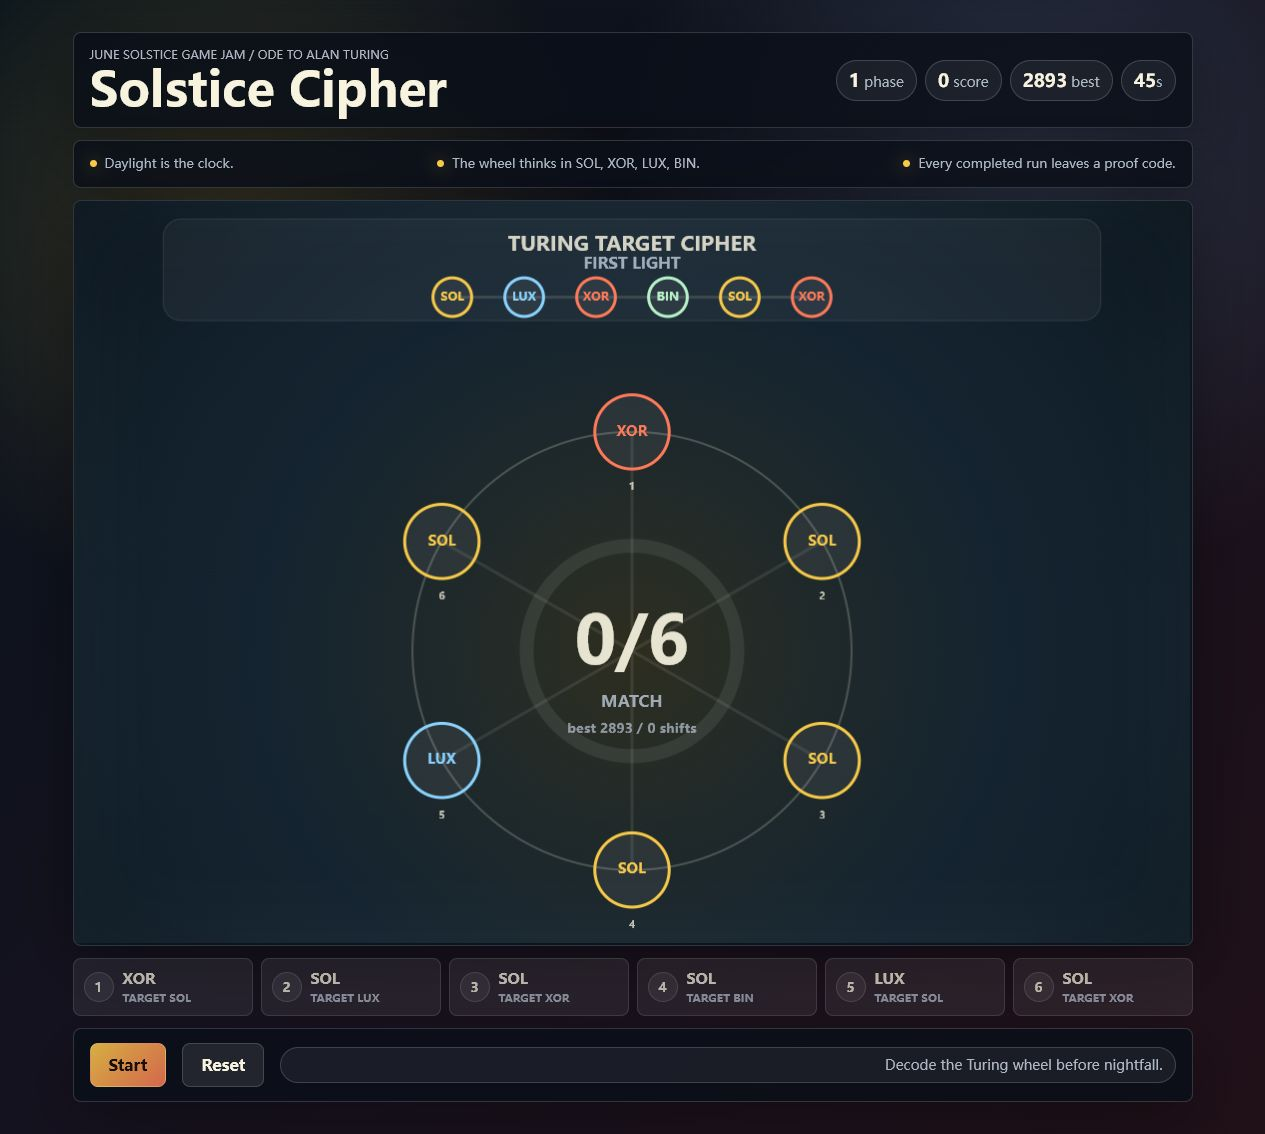
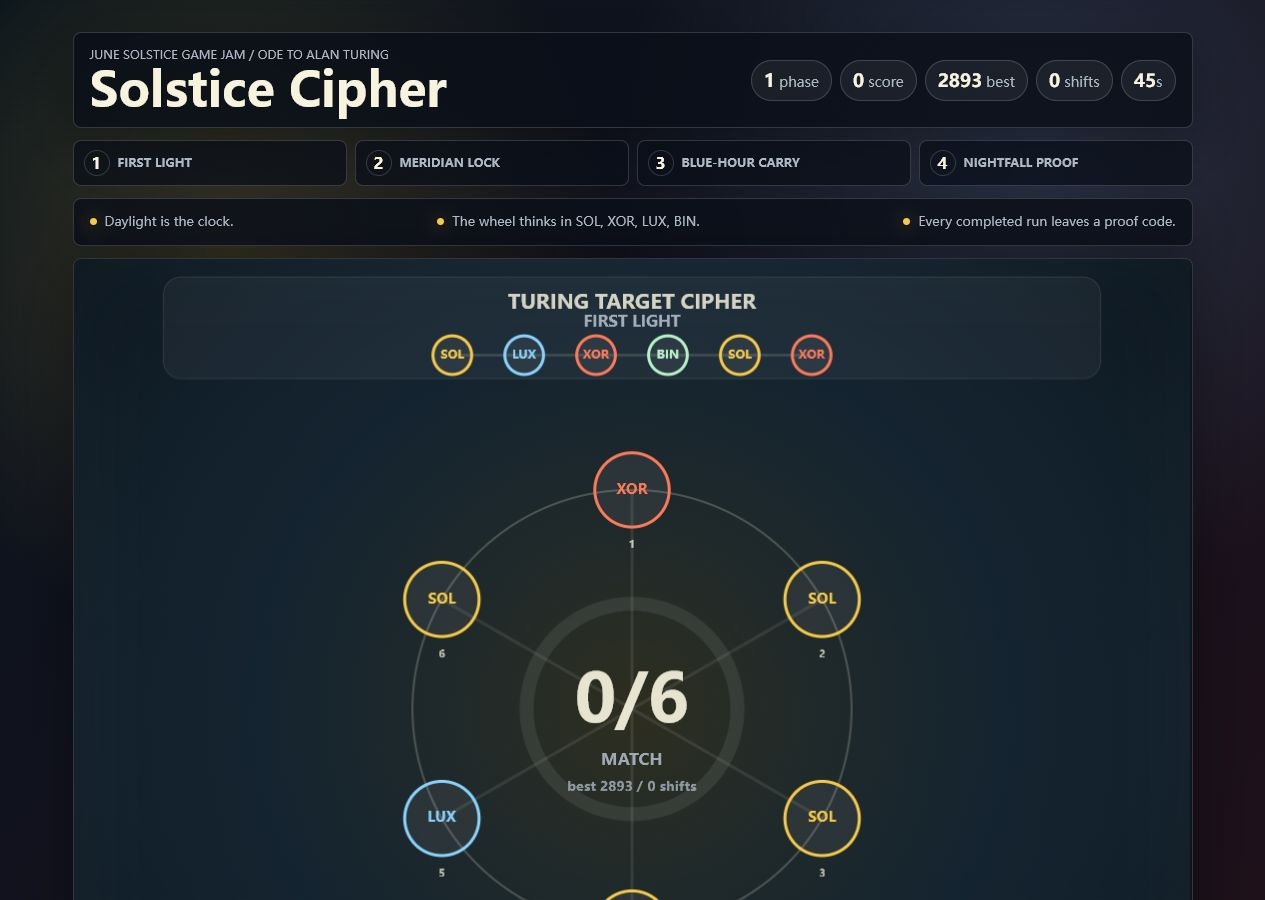
Add Solstice phase progress proofing

diff --git a/styles.css b/styles.css
@@ -74,6 +74,61 @@ body {
   margin-bottom: 12px;
 }
 
+.phase-track {
+  display: grid;
+  grid-template-columns: repeat(4, minmax(0, 1fr));
+  gap: 8px;
+  margin: 0 0 12px;
+  padding: 0;
+  list-style: none;
+}
+
+.phase-step {
+  min-width: 0;
+  min-height: 46px;
+  display: grid;
+  grid-template-columns: auto minmax(0, 1fr);
+  align-items: center;
+  gap: 8px;
+  border: 1px solid var(--line);
+  border-radius: 8px;
+  padding: 9px 10px;
+  background: rgba(9, 14, 24, 0.72);
+  color: var(--muted);
+}
+
+.phase-index {
+  display: grid;
+  place-items: center;
+  width: 26px;
+  height: 26px;
+  border: 1px solid var(--line);
+  border-radius: 999px;
+  color: var(--ink);
+  font-weight: 800;
+}
+
+.phase-name {
+  min-width: 0;
+  color: inherit;
+  font-size: 12px;
+  font-weight: 800;
+  text-transform: uppercase;
+  line-height: 1.18;
+}
+
+.phase-step.active {
+  border-color: rgba(247, 201, 72, 0.58);
+  background: rgba(247, 201, 72, 0.12);
+  color: var(--accent);
+}
+
+.phase-step.complete {
+  border-color: rgba(184, 242, 200, 0.58);
+  background: rgba(184, 242, 200, 0.1);
+  color: #b8f2c8;
+}
+
 .brief {
   margin-bottom: 12px;
   color: var(--muted);
@@ -267,6 +322,10 @@ button:focus-visible {
 
   .stats {
     justify-content: flex-start;
+  }
+
+  .phase-track {
+    grid-template-columns: repeat(2, minmax(0, 1fr));
   }
 
   .controls {

diff --git a/game.js b/game.js
@@ -4,10 +4,12 @@
   const levelLabel = document.querySelector("#levelLabel");
   const scoreLabel = document.querySelector("#scoreLabel");
   const bestLabel = document.querySelector("#bestLabel");
+  const shiftLabel = document.querySelector("#shiftLabel");
   const timeLabel = document.querySelector("#timeLabel");
   const statusLine = document.querySelector("#statusLine");
   const startButton = document.querySelector("#startButton");
   const resetButton = document.querySelector("#resetButton");
+  const phaseTrack = document.querySelector("#phaseTrack");
   const nodeButtons = document.querySelector("#nodeButtons");
   const proofPanel = document.querySelector("#proofPanel");
   const proofCode = document.querySelector("#proofCode");
@@ -95,14 +97,46 @@
     levelLabel.textContent = String(Math.min(state.level + 1, levels.length));
     scoreLabel.textContent = String(state.score);
     bestLabel.textContent = String(state.bestScore);
+    shiftLabel.textContent = String(state.shifts);
     timeLabel.textContent = String(Math.max(0, Math.ceil(state.timeLeft)));
     statusLine.textContent = state.message;
+    syncPhaseTrack();
     syncNodeButtons();
     if (proofPanel && proofCode && copyProofButton) {
       proofPanel.hidden = !state.complete;
       proofCode.textContent = state.finalProof;
       copyProofButton.disabled = !state.finalProof;
     }
+  }
+
+  function syncPhaseTrack() {
+    if (!phaseTrack) return;
+    if (phaseTrack.children.length !== levels.length) {
+      phaseTrack.textContent = "";
+      phaseNames.forEach((name, index) => {
+        const item = document.createElement("li");
+        const indexLabel = document.createElement("span");
+        const nameLabel = document.createElement("span");
+        item.className = "phase-step";
+        indexLabel.className = "phase-index";
+        nameLabel.className = "phase-name";
+        indexLabel.textContent = String(index + 1);
+        nameLabel.textContent = name;
+        item.append(indexLabel, nameLabel);
+        phaseTrack.append(item);
+      });
+    }
+    [...phaseTrack.children].forEach((item, index) => {
+      const done = state.solvedPhases > index;
+      const active = state.running && state.level === index && !state.complete;
+      item.classList.toggle("complete", done);
+      item.classList.toggle("active", active);
+      if (active) {
+        item.setAttribute("aria-current", "step");
+      } else {
+        item.removeAttribute("aria-current");
+      }
+    });
   }
 
   function syncNodeButtons() {

diff --git a/smoke.html b/smoke.html
@@ -113,7 +113,7 @@
         <p><a href="./">Open the playable game</a></p>
       </div>
       <div class="panel">
-        <iframe id="gameFrame" src="./?v=20260613-node-controls" title="Solstice Cipher game under smoke test"></iframe>
+        <iframe id="gameFrame" src="./?v=20260613-phase-track" title="Solstice Cipher game under smoke test"></iframe>
       </div>
     </section>
   </main>
@@ -166,6 +166,8 @@
       const statusLine = doc.querySelector("#statusLine");
       const scoreLabel = doc.querySelector("#scoreLabel");
       const bestLabel = doc.querySelector("#bestLabel");
+      const shiftLabel = doc.querySelector("#shiftLabel");
+      const phaseSteps = doc.querySelectorAll("#phaseTrack .phase-step");
       const proofPanel = doc.querySelector("#proofPanel");
       const proofCode = doc.querySelector("#proofCode");
 
@@ -174,6 +176,8 @@
       addCheck("first-phase node buttons are present", nodeButtons.length === levelLengths[0]);
       addCheck("status line is present", Boolean(statusLine));
       addCheck("best score label is present", Boolean(bestLabel));
+      addCheck("shift counter is present", Boolean(shiftLabel));
+      addCheck("four-phase progress track is present", phaseSteps.length === levelLengths.length);
       addCheck("run proof panel is present", Boolean(proofPanel));
 
       startButton.click();
@@ -187,9 +191,11 @@
       const finalText = statusLine.textContent;
       const finalScore = Number(scoreLabel.textContent);
       const bestScore = Number(bestLabel.textContent);
+      const shiftCount = Number(shiftLabel.textContent);
       addCheck("four phases reach final state", finalText.includes("Longest day held"));
       addCheck("final score is positive", Number.isFinite(finalScore) && finalScore > 0);
       addCheck("best score records the completed run", Number.isFinite(bestScore) && bestScore >= finalScore);
+      addCheck("shift counter records the completed run", Number.isFinite(shiftCount) && shiftCount > 0);
       addCheck("final status reports shift count", finalText.includes("shifts"));
       addCheck("completion reveals run proof", proofPanel.hidden === false);
       addCheck("run proof encodes phases, score, shifts, and checksum", /^SC-4P-\d+-\d+-[0-9A-Z]{6}$/.test(proofCode.textContent));

diff --git a/index.html b/index.html
@@ -10,7 +10,7 @@
   <meta property="og:image" content="cover.png">
   <meta property="og:type" content="website">
   <meta name="twitter:card" content="summary_large_image">
-  <link rel="stylesheet" href="styles.css?v=20260613-node-controls">
+  <link rel="stylesheet" href="styles.css?v=20260613-phase-track">
 </head>
 <body>
   <main class="shell">
@@ -24,9 +24,12 @@
           <span><strong id="levelLabel">1</strong> phase</span>
           <span><strong id="scoreLabel">0</strong> score</span>
           <span><strong id="bestLabel">0</strong> best</span>
+          <span><strong id="shiftLabel">0</strong> shifts</span>
           <span><strong id="timeLabel">45</strong>s</span>
         </div>
       </div>
+
+      <ol id="phaseTrack" class="phase-track" aria-label="Phase progress"></ol>
 
       <div class="brief" aria-label="Challenge fit">
         <span>Daylight is the clock.</span>
@@ -53,6 +56,6 @@
       </section>
     </section>
   </main>
-  <script src="game.js?v=20260613-node-controls"></script>
+  <script src="game.js?v=20260613-phase-track"></script>
 </body>
 </html>

diff --git a/dev-submit-console.html b/dev-submit-console.html
@@ -73,7 +73,7 @@
     <p class="dek">Use this page after the GitHub repository and GitHub Pages try link are live. It keeps the DEV post short, consistent, and honest: no public URL, no DEV submit.</p>
 
     <section class="status" aria-label="Current status">
-      <div><strong>Ready local package</strong><p>Static game, node controls, judge page, smoke page, GIF, cover, screenshots, and ZIP are prepared.</p></div>
+<div><strong>Ready local package</strong><p>Static game, phase progress, node controls, judge page, smoke page, GIF, cover, screenshots, and ZIP are prepared.</p></div>
       <div><strong>Human gate</strong><p>Public GitHub repo/Pages plus DEV login/posting remain account-owner actions.</p></div>
       <div><strong>$200 target</strong><p>DEV challenge has five USD 200 winner slots; this route is ready for the public hosting and DEV post gates.</p></div>
     </section>
@@ -89,7 +89,7 @@
       </div>
       <div class="panel">
         <div class="copy-row"><h2>Opening</h2><button type="button" data-copy="opening">Copy</button></div>
-        <textarea id="opening" readonly>Solstice Cipher is a small browser puzzle for the June Solstice Game Jam. You rotate a Turing-inspired ring of sun, XOR, light, and binary glyphs to match each target cipher before nightfall. The game is intentionally compact: four phases, keyboard, touch, and node-button controls, streak scoring, a local best score, and a deterministic run proof at the end.</textarea>
+<textarea id="opening" readonly>Solstice Cipher is a small browser puzzle for the June Solstice Game Jam. You rotate a Turing-inspired ring of sun, XOR, light, and binary glyphs to match each target cipher before nightfall. The game is intentionally compact: a visible four-phase progress strip, keyboard, touch, and node-button controls, streak scoring, a local best score, and a deterministic run proof at the end.</textarea>
       </div>
       <div class="panel">
         <div class="copy-row"><h2>Prize Category</h2><button type="button" data-copy="category">Copy</button></div>
@@ -106,7 +106,7 @@ Source: https://github.com/OOYXLOO/solstice-cipher</textarea>
       <div class="panel">
         <div class="copy-row"><h2>What I Built</h2><button type="button" data-copy="built">Copy</button></div>
         <textarea id="built" readonly>- A self-contained static JavaScript/canvas game.
-- Four named phases with score carry-over, streak bonuses, and shift counting.
+- Four named phases with a visible progress strip, score carry-over, streak bonuses, and shift counting.
 - Explicit node-control buttons for mobile and accessibility-friendly play.
 - A finale screen with final score, local best score, solved phase count, total shifts, and copyable run proof.
 - A judge page, smoke test, and proof verifier so reviewers can verify the full loop quickly.

diff --git a/verification.html b/verification.html
@@ -104,8 +104,8 @@
 
     <section class="grid" aria-label="Verification summary">
       <div class="panel"><h2>Package State</h2><p><strong>Local HEAD:</strong> current local commit after this report is committed.</p><p><strong>Status:</strong> not public and not submitted yet.</p><p><strong>Tags:</strong> <code>devchallenge</code>, <code>gamechallenge</code>, <code>gamedev</code></p></div>
-      <div class="panel"><h2>Smoke Result</h2><p><strong>PASS</strong> - Longest day held. Final score 2893 across 62 shifts.</p><p>The smoke page starts the game, solves four phases, verifies the score, and checks the <code>SC-4P-...</code> proof format. The sample proof is <code>SC-4P-2893-62-1I4Y0G</code>.</p></div>
-      <div class="panel"><h2>Browser Layout</h2><ul><li>Desktop 1280x900: no horizontal overflow, no page console errors.</li><li>Mobile 390x844: no horizontal overflow, no page console errors.</li><li>Node-control buttons are present below the canvas for touch and accessibility-friendly play.</li></ul></div>
+      <div class="panel"><h2>Smoke Result</h2><p><strong>PASS</strong> - Longest day held. Final score 2893 across 62 shifts.</p><p>The smoke page starts the game, solves four phases, verifies 16 checks, and checks the <code>SC-4P-...</code> proof format. The sample proof is <code>SC-4P-2893-62-1I4Y0G</code>.</p></div>
+      <div class="panel"><h2>Browser Layout</h2><ul><li>Desktop 1280x900: no horizontal overflow.</li><li>Mobile 390x844: no horizontal overflow.</li><li>The phase progress strip has four visible steps on desktop and mobile.</li><li>Node-control buttons are present below the canvas for touch and accessibility-friendly play.</li></ul></div>
       <div class="panel"><h2>Media Assets</h2><ul><li><code>cover.png</code></li><li><code>solstice-cipher-demo.mp4</code></li><li><code>solstice-cipher-demo.webm</code></li><li><code>solstice-cipher-demo.gif</code></li></ul></div>
       <div class="panel"><h2>CI Preflight</h2><p><code>.github/workflows/verify.yml</code> checks JavaScript syntax, required files, official tags, media references, judge links, and smoke proof copy after publication.</p></div>
       <div class="panel"><h2>Human Gates</h2><p>Create the public GitHub repo, enable Pages, publish the DEV article, and handle prize/payout/tax/KYC only with the account owner.</p></div>

diff --git a/judge.html b/judge.html
@@ -127,7 +127,7 @@
     <section class="grid" aria-label="Judge notes">
       <div class="card"><strong>Theme Fit</strong><p>The June solstice becomes the core timer: daylight is the player's resource, nightfall ends the run, and the final screen celebrates holding the longest day.</p></div>
       <div class="card"><strong>Turing Fit</strong><p>The puzzle uses rotor-like alignment, binary and XOR glyph language, and target-versus-ring matching without pretending to simulate a historical machine.</p></div>
-      <div class="card"><strong>Completed Loop</strong><p>Four named phases, score carry-over, streak scoring, shift counting, copyable and locally verifiable run proof, keyboard support, explicit node buttons, mobile layout, MP4/WebM/GIF demos, and final run summary are ready.</p></div>
+      <div class="card"><strong>Completed Loop</strong><p>Four named phases, visible progress strip, score carry-over, streak scoring, shift counting, copyable and locally verifiable run proof, keyboard support, explicit node buttons, mobile layout, MP4/WebM/GIF demos, and final run summary are ready.</p></div>
       <div class="card"><strong>Category Boundary</strong><p>This is aimed at Best Ode to Alan Turing through mechanics and verifier design. It does not claim the Best Google AI Usage category.</p></div>
       <div class="card"><strong>Publication Boundary</strong><p>No DEV post, public repo, or prize claim exists yet. Use <a href="PUBLISHING.md">PUBLISHING.md</a> after the account owner creates or approves public hosting.</p></div>
     </section>

diff --git a/verification-report.md b/verification-report.md
@@ -52,20 +52,23 @@ Expected local URLs:
 
 ## Browser Checks
 
-- Desktop 1280x900: no horizontal overflow and no page console errors.
-- Mobile 390x844: no horizontal overflow and no page console errors.
+- Desktop 1280x900: no horizontal overflow; phase progress strip and canvas are visible.
+- Mobile 390x844: no horizontal overflow; phase progress strip wraps cleanly and canvas is visible.
 - `smoke.html` result: `PASS - Longest day held. Final score 2893 across 62 shifts.`
 - Sample smoke proof: `SC-4P-2893-62-1I4Y0G`
 - `proof-verifier.html` recomputes the proof checksum locally.
-- The playable page exposes node-control buttons below the canvas for mobile and accessibility-friendly play.
+- The playable page exposes a four-step phase progress strip and node-control buttons below the canvas for mobile and accessibility-friendly play.
 - Smoke checks include:
   - canvas present
   - start button present
   - first-phase node buttons present
+  - shift counter present
+  - four-phase progress track present
   - run starts through public button
   - four phases reach final state
   - final score is positive
   - local best score records the completed run
+  - shift counter records the completed run
   - final status reports shift count
   - run proof is visible
   - run proof matches `SC-4P-...`

diff --git a/README.md b/README.md
@@ -25,7 +25,7 @@ http://127.0.0.1:8781/
 
 Solstice Cipher is a compact browser puzzle game for the June solstice theme and an ode to Alan Turing's code-breaking legacy. The player rotates a Turing wheel of solar, XOR, light, and binary glyphs to match the target cipher before time runs out. It is intentionally static and self-contained so it can be hosted on GitHub Pages if the user authorizes public publishing.
 
-The current build now has four named phases, score carry-over, streak scoring, shift counting, a local best-score readout, a shareable completion proof code, and a final replay screen that summarizes the run. It also exposes live node-control buttons below the canvas, so judges can play on mobile or desktop without guessing the canvas hit zones. That gives judges a complete loop in one short play session instead of an open-ended prototype.
+The current build now has a visible four-phase progress strip, score carry-over, streak scoring, shift counting, a local best-score readout, a shareable completion proof code, and a final replay screen that summarizes the run. It also exposes live node-control buttons below the canvas, so judges can play on mobile or desktop without guessing the canvas hit zones. That gives judges a complete loop in one short play session instead of an open-ended prototype.
 
 ## Controls
 
@@ -37,9 +37,10 @@ The current build now has four named phases, score carry-over, streak scoring, s
 
 ## Current Quality Checks
 
-- Desktop and 390px mobile browser checks pass with no console errors or horizontal overflow.
+- Desktop and 390px mobile browser checks pass with no horizontal overflow.
 - Canvas screenshots are nonblank and visually varied.
 - Ring-node click interaction and keyboard node rotation are both covered by local browser checks.
+- The HUD exposes phase, score, best, shift, and timer counters, plus a four-step progress strip for the complete run.
 - A four-phase ending state shows final score, local best score, solved phase count, total shifts, and a copyable run proof instead of looping forever.
 - `.github/workflows/verify.yml` is ready to run public package checks after the repository is published.
 
@@ -57,7 +58,7 @@ The current build now has four named phases, score carry-over, streak scoring, s
 ## Judge Proof
 
 - `judge.html`: one-page judge pack with play link, smoke-test link, theme fit, and publication boundary.
-- `smoke.html`: browser self-test that starts the game in an iframe, solves all four phases through public keyboard controls, and verifies the final score/status plus the completion proof code.
+- `smoke.html`: browser self-test that starts the game in an iframe, solves all four phases through public keyboard controls, and verifies the final score/status, shift counter, phase track, and completion proof code.
 - `proof-verifier.html`: local verifier for copyable `SC-4P-...` run proofs.
 - `dev-submit-console.html`: copy-ready DEV final post console for title, tags, body sections, media order, try links, and the no-go gate after the public Pages link exists.
 - `publish-assistant.html`: copy-ready repository, push, Pages, public URL, and preflight instructions for the human account gate.

diff --git a/dev-article-final.md b/dev-article-final.md
@@ -10,7 +10,7 @@ cover_image: ./cover.png
 
 Solstice Cipher is a compact browser puzzle for the DEV June Solstice Game Jam. The player rotates a Turing-inspired ring of `SOL`, `XOR`, `LUX`, and `BIN` glyphs until each node matches the target cipher before nightfall ends the run.
 
-It is designed to be playable in a quick judging pass: four named phases, score carry-over, streak bonuses, shift counting, keyboard/touch controls, explicit node-control buttons for mobile play, a local best score, and a deterministic run proof at the end.
+It is designed to be playable in a quick judging pass: a visible four-phase progress strip, score carry-over, streak bonuses, shift counting, keyboard/touch controls, explicit node-control buttons for mobile play, a local best score, and a deterministic run proof at the end.
 
 Public links to add only after hosting is live:
 
@@ -63,7 +63,7 @@ For the Alan Turing angle, Solstice Cipher borrows the feeling of rotor alignmen
 
 - A self-contained static HTML/CSS/JavaScript game.
 - Canvas-rendered glyphs, beams, progress ring, and particle feedback.
-- Four timed phases with score carry-over and streak bonuses.
+- Four timed phases with a visible progress strip, score carry-over, and streak bonuses.
 - Mouse, touch, node-button, and number-key controls.
 - Final screen with solved phase count, total shifts, local best score, and copyable `SC-4P-...` run proof.
 - A proof verifier that recomputes completion checksums locally.

diff --git a/submission-checklist.md b/submission-checklist.md
@@ -10,7 +10,7 @@ Status: local package is GitHub Pages-ready. Not published and not submitted.
 - Judge pack: `judge.html`.
 - Browser smoke test: `smoke.html`.
 - Run proof verifier: `proof-verifier.html`.
-- Node-control buttons below the canvas for mobile and accessibility-friendly play.
+- Phase progress strip and node-control buttons for quick judging, mobile play, and accessibility-friendly play.
 - Copy-ready DEV final post console: `dev-submit-console.html`.
 - Copy-ready publish assistant: `publish-assistant.html`.
 - Local/public preflight script: `public-preflight.ps1`.
@@ -33,6 +33,7 @@ Status: local package is GitHub Pages-ready. Not published and not submitted.
   - `.github/workflows/verify.yml`
   - Desktop browser check: start, number-key rotation, no console errors, no horizontal overflow.
   - Mobile 390px browser check: no console errors, no horizontal overflow.
+- Phase progress strip: four steps visible on desktop and mobile, no mobile overflow.
 - Node-control buttons: visible below the canvas, six controls on the first phase, no mobile overflow.
 - Four-phase completion check: final state shows `Longest day held. Final score ... across ... shifts.` and the canvas finale reports solved phases, local best score, total shifts, and a deterministic run proof.
 - Proof verifier check: `proof-verifier.html` accepts sample proof `SC-4P-2893-62-1I4Y0G`.

diff --git a/dev-post-draft.md b/dev-post-draft.md
@@ -15,7 +15,7 @@ The game borrows the feeling of rotor alignment and cipher checking rather than 
 - A static HTML/CSS/JavaScript game.
 - Canvas-rendered glyphs, beams, progress ring, and particle feedback.
 - Mouse, touch, node-button, and number-key controls.
-- Multiple timed phases with score carry-over.
+- Multiple timed phases with a visible progress strip and score carry-over.
 - Time pressure, per-signal points, streak bonuses, small time penalties for exploratory shifts, and a final score state after four phases.
 - Four named phases, shift counting, explicit node-control buttons for mobile play, a local best-score readout, a deterministic run proof code, and an end screen that summarizes the run for quick judging.
 - No backend, API key, account integration, or private data.